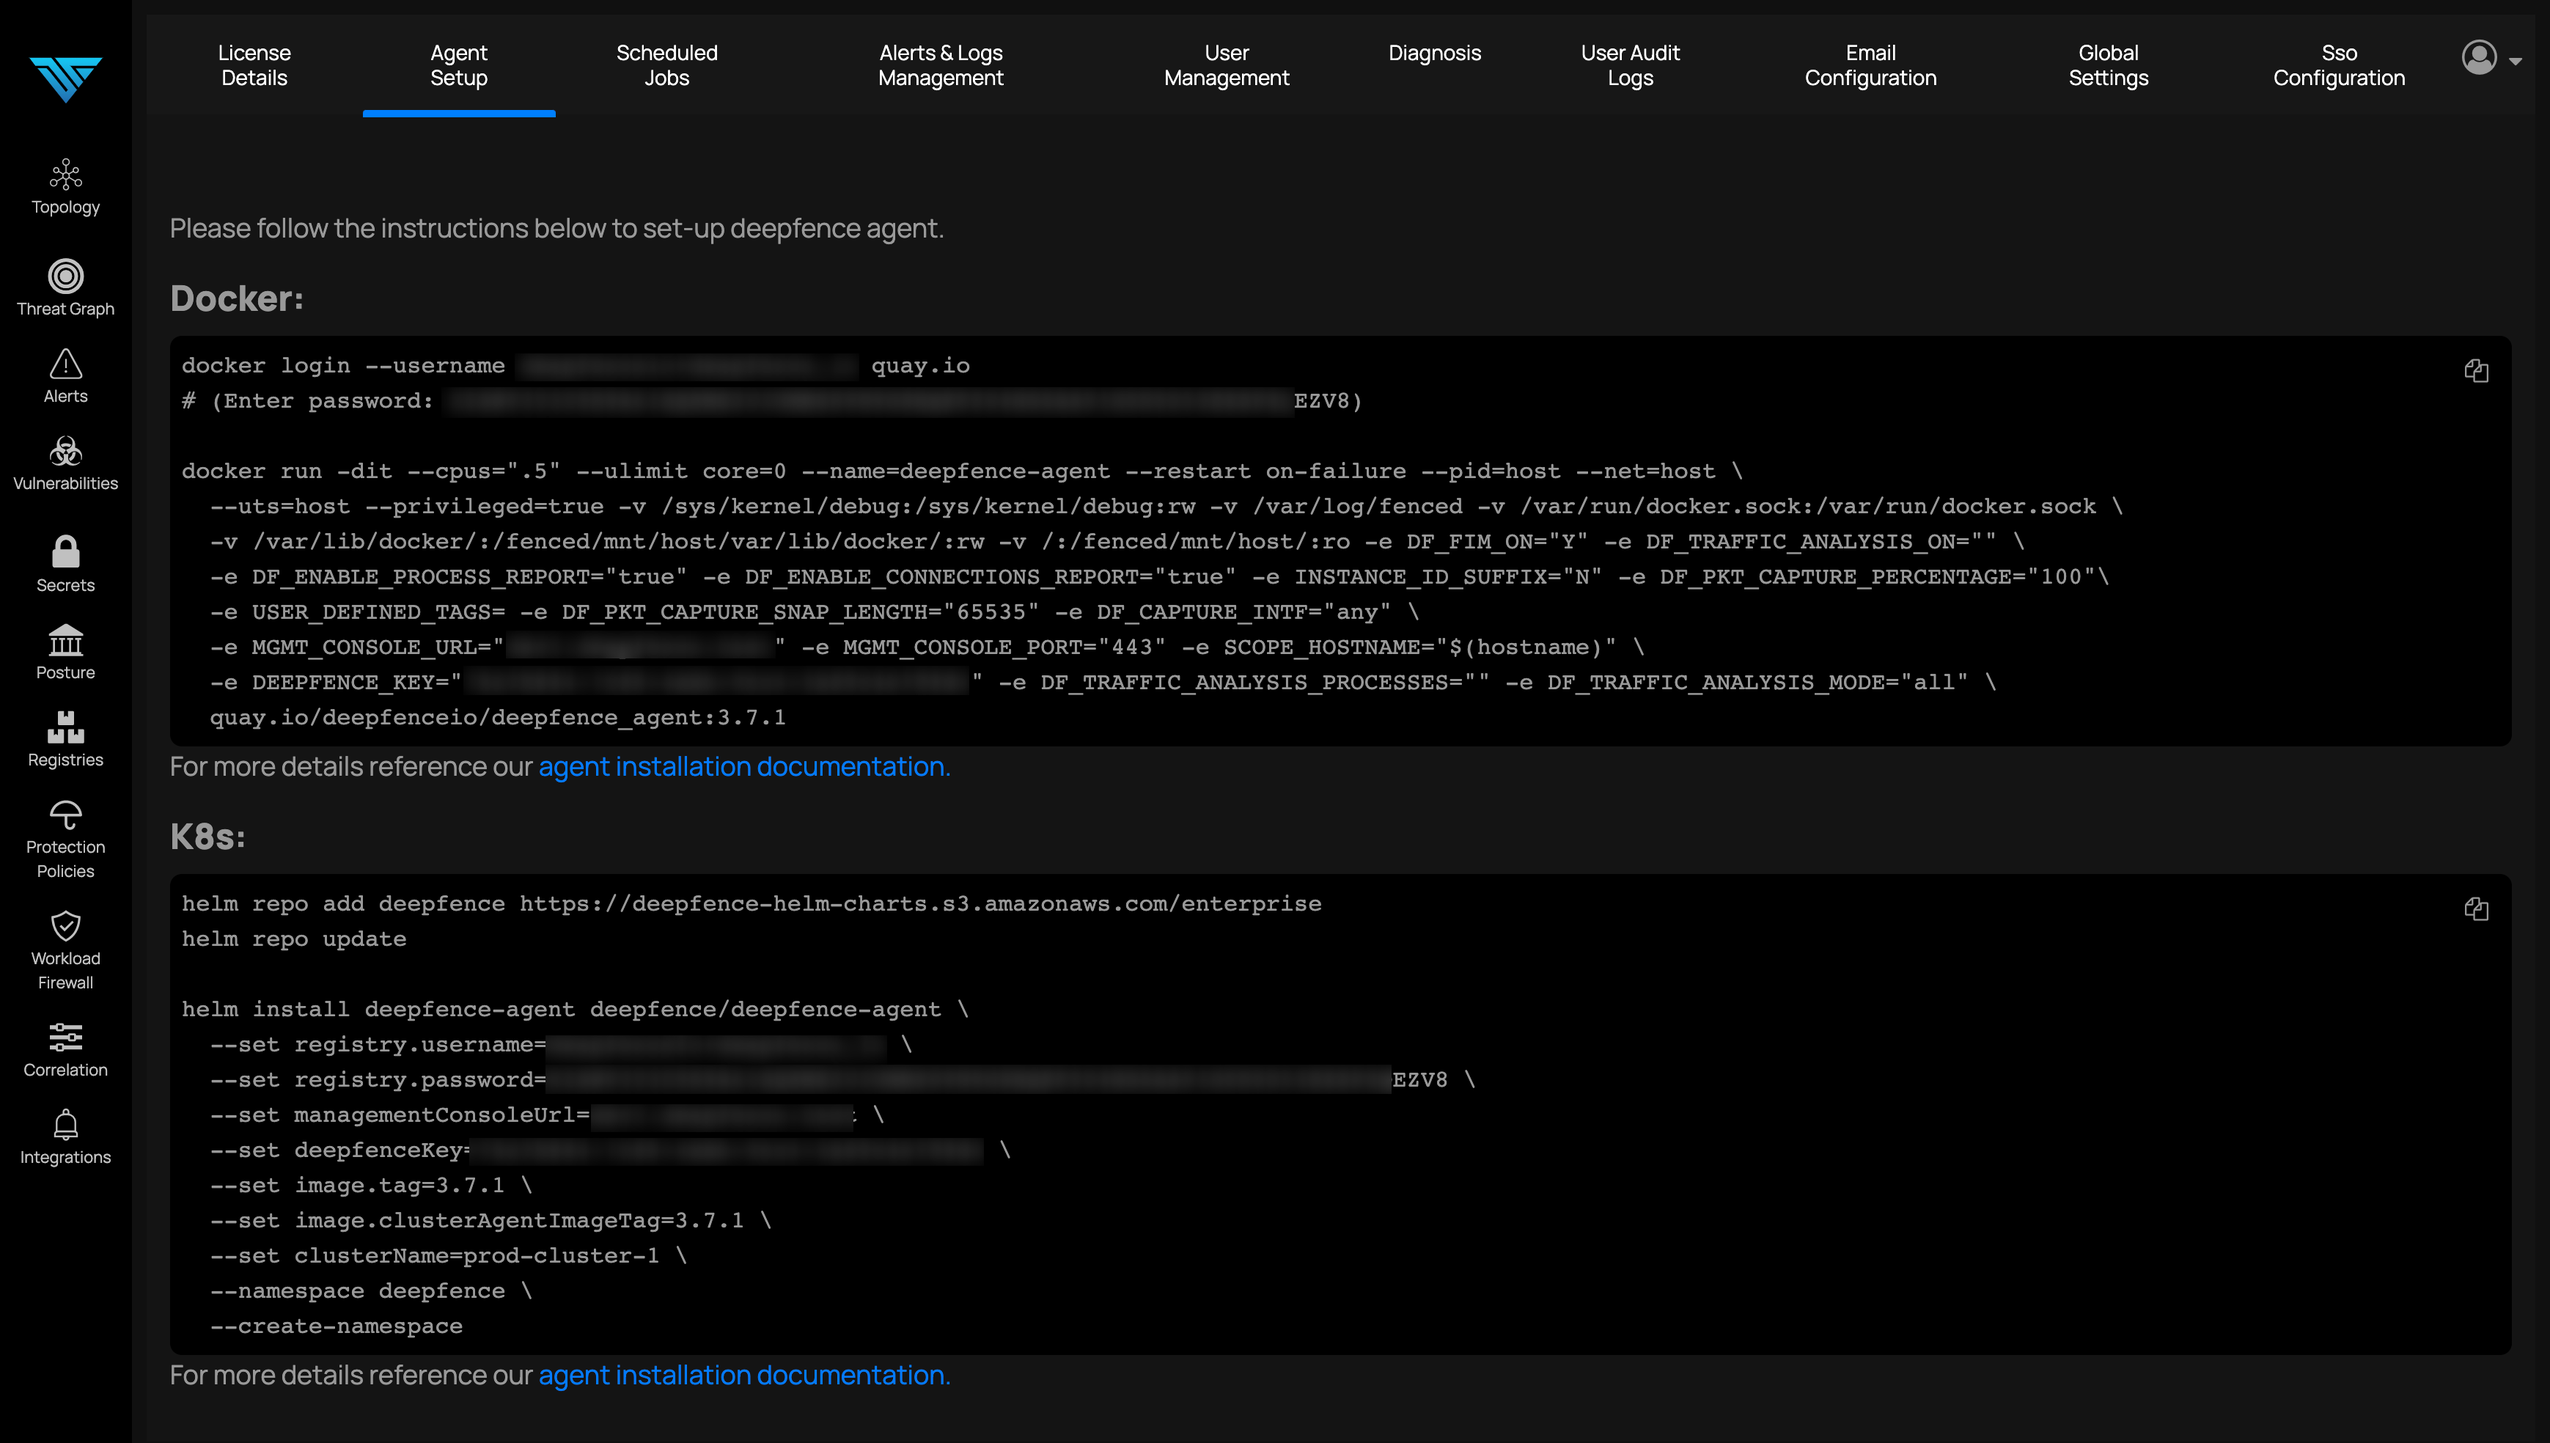
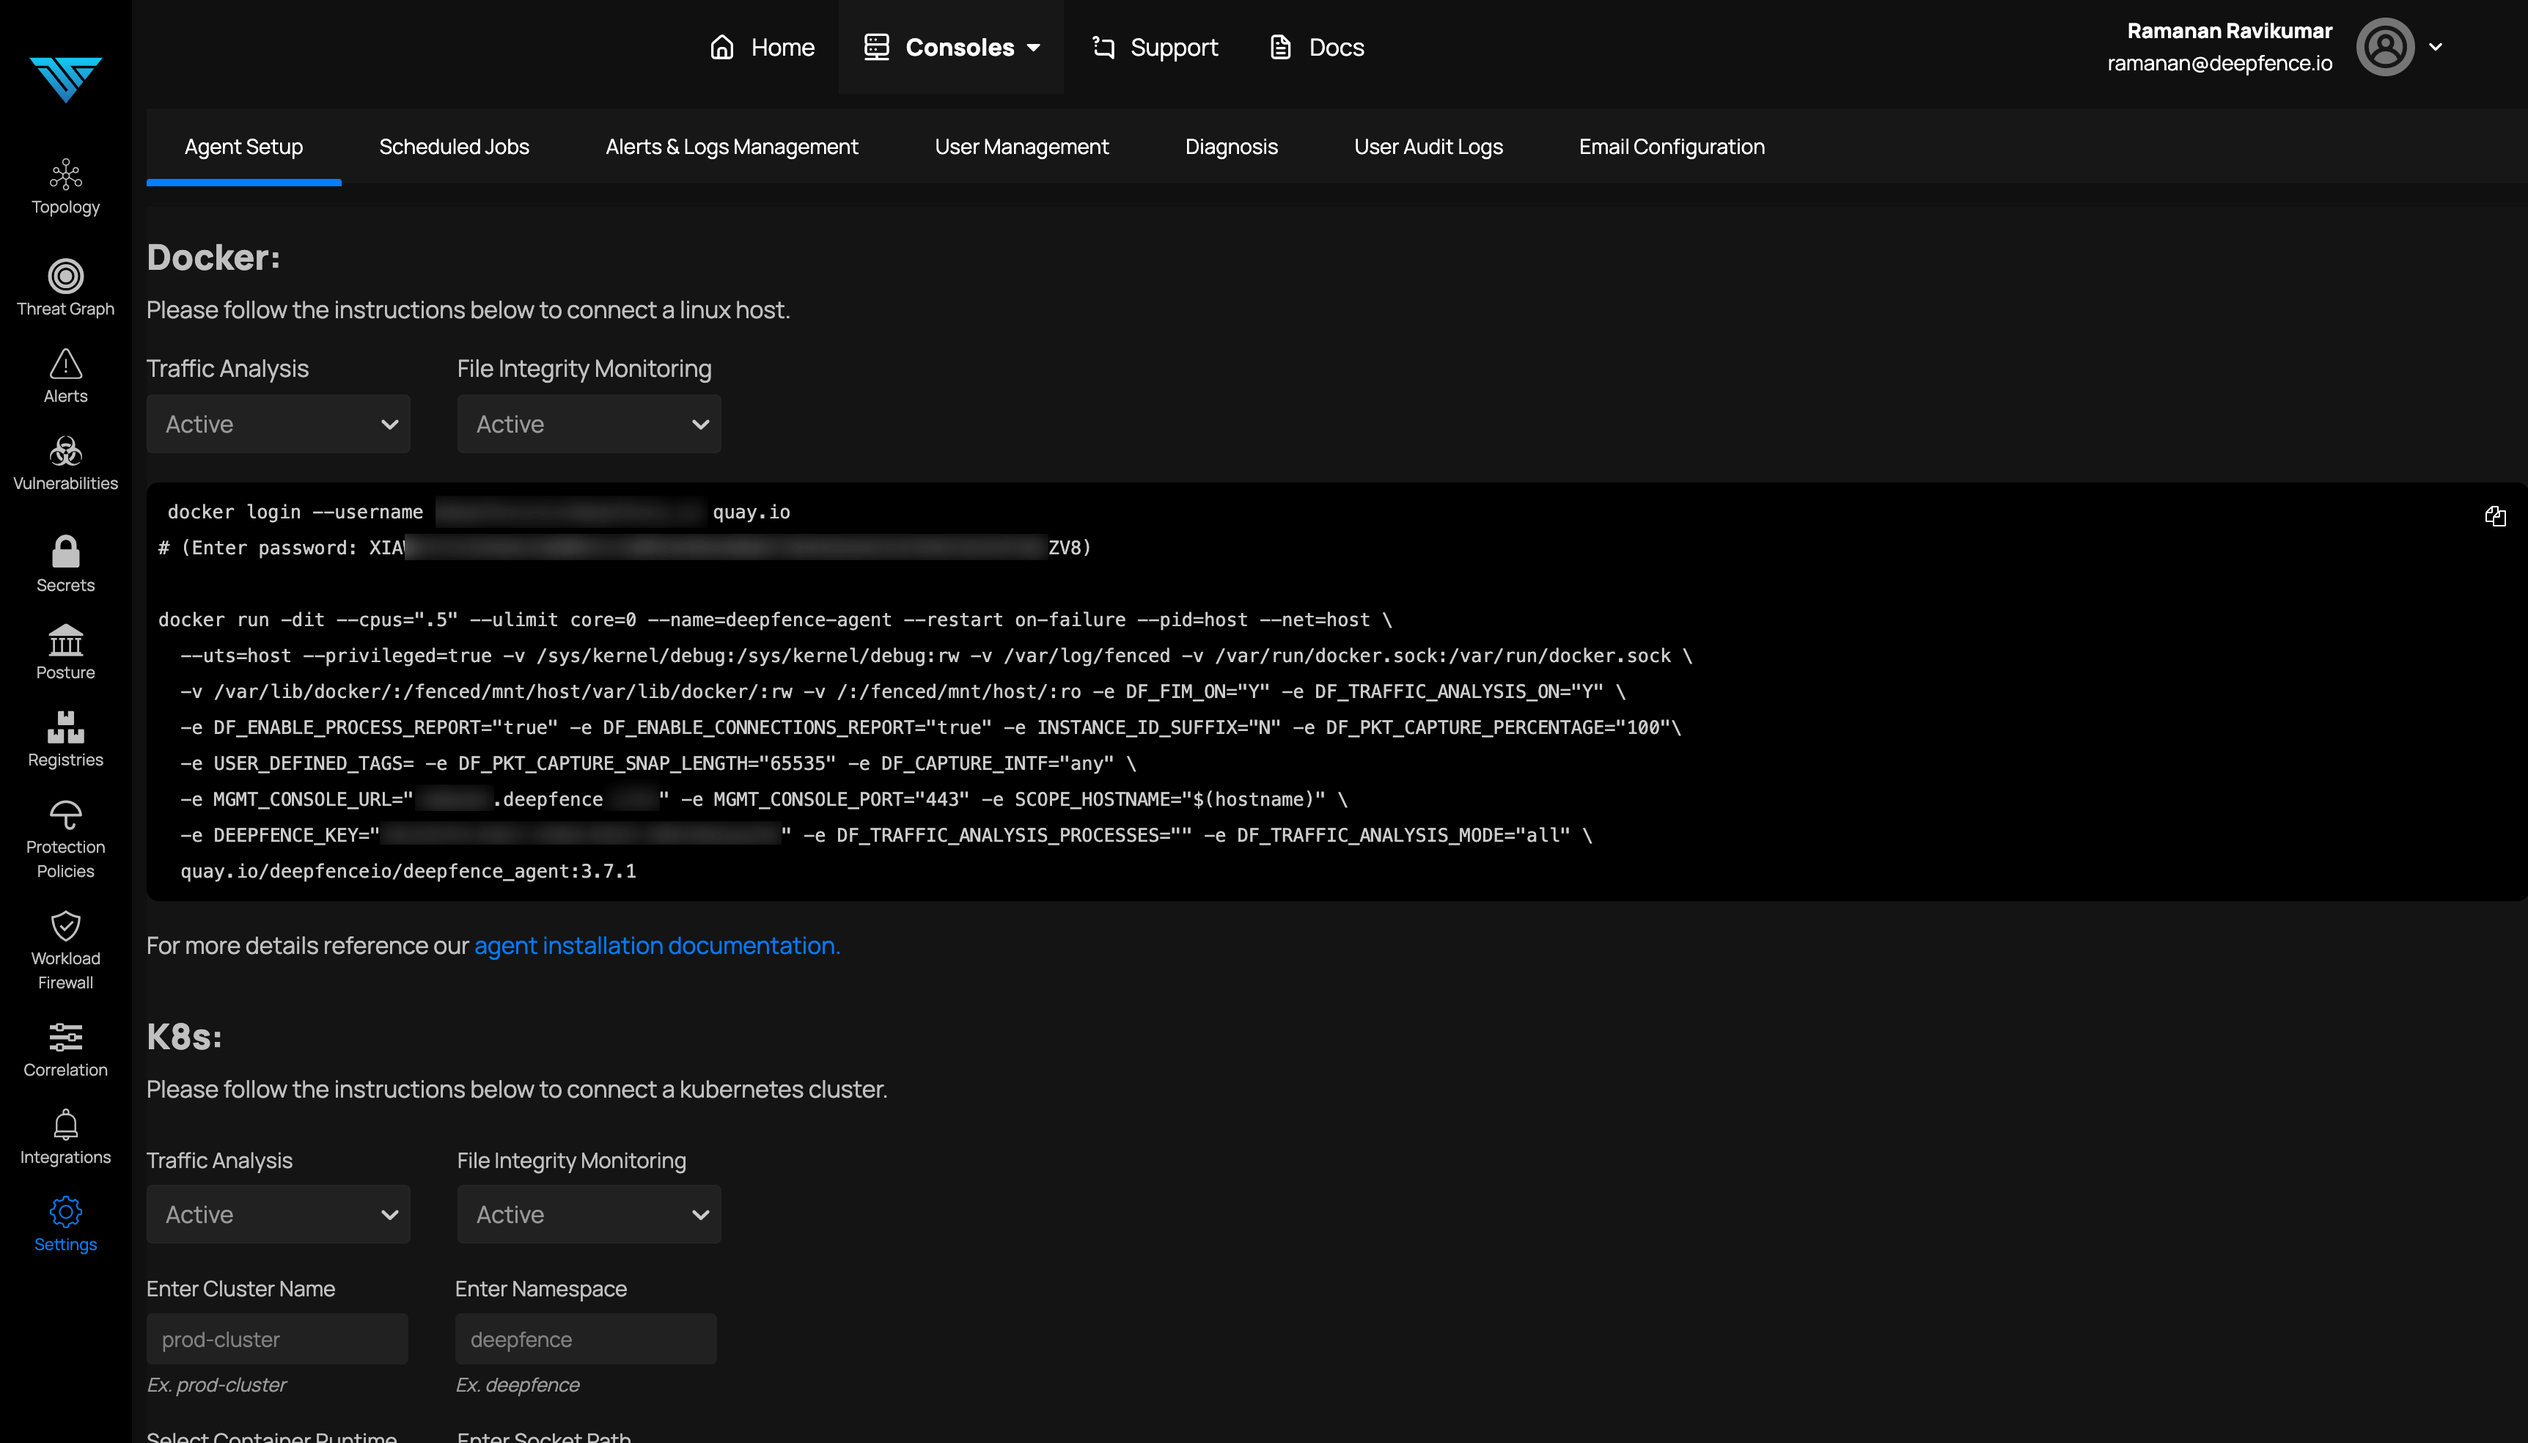
Update docs

diff --git a/docs/docs/cloud/agents.md b/docs/docs/cloud/agents.md
@@ -5,8 +5,10 @@ title: Registering Agents
 # Register a Sensor Agent with Deepfence Cloud
 
 :::info
-If you are installing docker agent or kubernetes agent, in the console select '**settings**' from sidebar and select '**Agent setup**'. This page shows commands for installing agents on docker and kubernetes, the same page appears first time when no agents are configured to connect to the console
+If you are installing docker agent or kubernetes agent, in the console select '**settings**' from sidebar and select '**Agent setup**'. This page shows commands for installing agents on docker and kubernetes, the same page appears first time when no agents are configured to connect to the console. You can also get the Deepfence container registry credentials here.
 :::
+
+![Agent Setup](../img/agent-setup.png)
 
 To register a ThreatStryker agent, you need two items of information:
 
